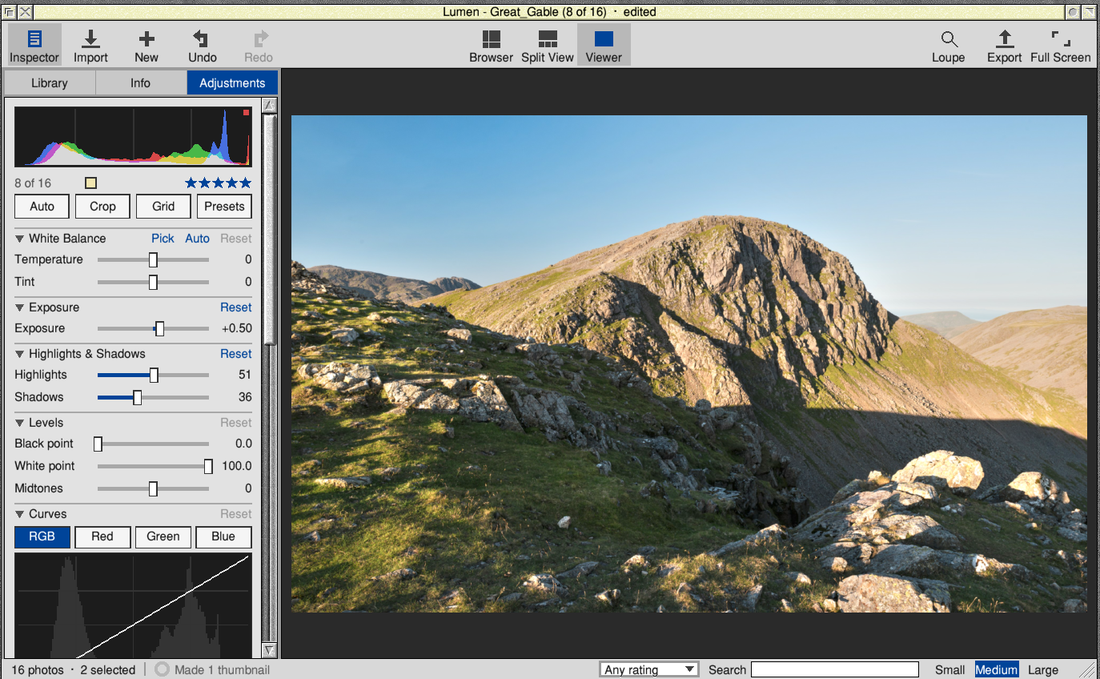
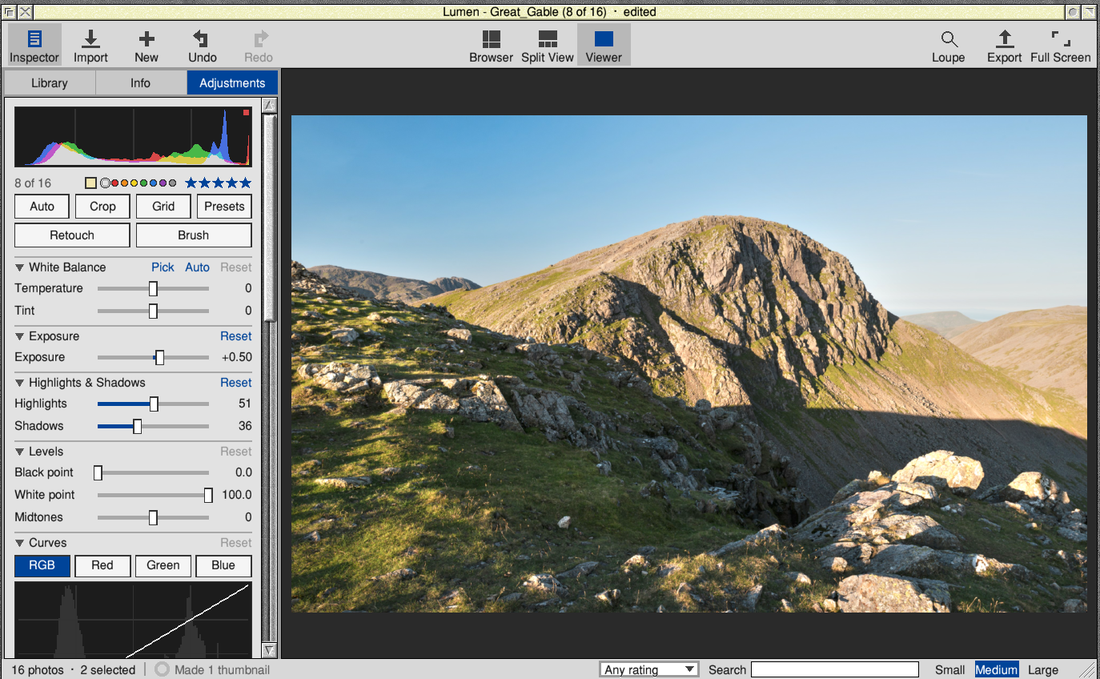
0.0.25: guide and !Help for retouch, brush, B&W, labels and compare
The guide covers colour labels (Chapter 5), comparing (Chapter 9), the
Black & White mixer (Chapter 10), and Retouch and Brush (Chapter 11, now
"Cropping, straightening, retouching and brushing"), with new pictures;
the panel, Photo and Selection menus, Presets and Info pictures are made
again for the new rows and items. Keys, mouse and menu tables updated.
!Help and the README describe them too.

Changed region(s): [[0.0, 0.3093, 0.2473, 0.9588], [0.0927, 0.2474, 0.1545, 0.2784], [0.0618, 0.9278, 0.0927, 0.9588]]

diff --git a/docs/guide/index.html b/docs/guide/index.html
@@ -67,7 +67,7 @@ a { color:#1f5fa8; }
 <li><a href="#part2">Part II: Your Photos</a>
 <ul><li><a href="#ch4">4. Bringing photos in</a></li><li><a href="#ch5">5. Looking through, rating and flagging</a></li><li><a href="#ch6">6. Projects, albums, stacks and watched folders</a></li><li><a href="#ch7">7. Keywords and finding photos</a></li><li><a href="#ch8">8. Removing photos, and photos that have moved</a></li></ul></li>
 <li><a href="#part3">Part III: Making Photos Better</a>
-<ul><li><a href="#ch9">9. Looking closely: the Viewer</a></li><li><a href="#ch10">10. The adjustments</a></li><li><a href="#ch11">11. Cropping and straightening</a></li><li><a href="#ch12">12. Styles, presets, versions and copying adjustments</a></li><li><a href="#ch13">13. What the camera recorded: the Info tab</a></li></ul></li>
+<ul><li><a href="#ch9">9. Looking closely: the Viewer</a></li><li><a href="#ch10">10. The adjustments</a></li><li><a href="#ch11">11. Cropping, straightening, retouching and brushing</a></li><li><a href="#ch12">12. Styles, presets, versions and copying adjustments</a></li><li><a href="#ch13">13. What the camera recorded: the Info tab</a></li></ul></li>
 <li><a href="#part4">Part IV: Sharing and Setting Up</a>
 <ul><li><a href="#ch14">14. Exporting and printing photos</a></li><li><a href="#ch15">15. Camera raw files and plug-ins</a></li><li><a href="#ch16">16. Choices</a></li><li><a href="#ch17">17. Getting help</a></li></ul></li>
 <li><a href="#part5">Part V: The Part of Tens</a>
@@ -275,6 +275,14 @@ a { color:#1f5fa8; }
 </ul>
 <p>All of these are on the <b>Selection</b> menu too: click Menu over the Browser.</p>
 
+<h4>Colour labels</h4>
+<p>A <b>colour label</b> is a coloured dot you give a photo, for whatever you like: red for "to print", green for "done", blue for "send to Mum". Choose <b>Colour label</b> from the Selection menu and pick a dot: the selected photos all get it, and the dot shows beside each one's name. <b>None</b> takes it off.</p>
+<div class="pair">
+<figure><img src="images/label-menu.png" alt="The Colour label menu"><figcaption>Selection &rarr; Colour label: pick a dot.</figcaption></figure>
+<figure><img src="images/labels.png" alt="Photos with colour labels"><figcaption>The dots beside the names.</figcaption></figure>
+</div>
+<p>You can also click a dot in the <b>Info</b> tab's Label row, or in the line of dots under the histogram in the Adjustments tab: click the photo's own dot again to take it off. Searching for a colour's name (<code>red</code>, <code>blue</code>) finds the photos with that label.</p>
+
 <div class="box try"><b class="label">TRY IT</b>Go through your photos with the arrow keys. Give each one stars: <kbd>5</kbd> for the best, <kbd>1</kbd> for the poor ones, <kbd>9</kbd> for the ones you'd never show anyone. Then choose <b>4 stars and up</b> from the rating filter in the bottom bar (<a href="#ch7">Chapter 7</a>): there are your best photos.</div>
 
 <h4>Thumbnail size</h4>
@@ -371,7 +379,7 @@ a { color:#1f5fa8; }
 <div class="box tip"><b class="label">TIP</b>Keywords travel with your photos. Exports carry the caption and keywords (as XMP, which other photo programs and websites read), and photos you import that were given keywords in another program bring them along.</div>
 
 <h4>Searching</h4>
-<p>Click in the <b>Search</b> box in the bottom bar and type. The Browser shows only the photos that match, as you type. Lumen looks in each photo's name, its caption and keywords, its camera's make and model, the date it was taken and its project's name. Type several words to find photos that match all of them. <kbd>Escape</kbd> empties the box.</p>
+<p>Click in the <b>Search</b> box in the bottom bar and type. The Browser shows only the photos that match, as you type. Lumen looks in each photo's name, its caption and keywords, its colour label's name, its camera's make and model, the date it was taken and its project's name. Type several words to find photos that match all of them. <kbd>Escape</kbd> empties the box.</p>
 <figure><img src="images/search.png" alt="Searching for tarn"><figcaption>Searching for "tarn". The title bar shows what you searched for.</figcaption></figure>
 
 <div class="box tip"><b class="label">TIP</b>Dates are searched as the camera writes them, year first: type <code>2022</code> for a year, or <code>2022:08</code> (or <code>2022-08</code>) for a month.</div>
@@ -426,6 +434,16 @@ a { color:#1f5fa8; }
 </ul>
 <figure><img src="images/loupe.png" alt="The loupe"><figcaption>The loupe at 100%, over the rocks.</figcaption></figure>
 
+<h4>Comparing two photos</h4>
+<p>To choose between two shots of the same thing, select both in the Browser and press <kbd>O</kbd> (or choose <b>Compare</b> from the Selection menu). The first is pinned on the left; the other is beside it on the right, as large as the window allows.</p>
+<figure><img src="images/compare.png" alt="Comparing two photos"><figcaption>Friars Crag pinned on the left, Buttermere on the right.</figcaption></figure>
+<ul>
+<li>In the Viewer, <kbd>O</kbd> (or <b>Compare with the next</b> on the Photo menu) pins the photo you're looking at and shows the next beside it.</li>
+<li><kbd>&larr;</kbd> and <kbd>&rarr;</kbd> change the photo on the right; the pinned one stays. Rate, flag and label as you go: the keys work on the photo on the right.</li>
+<li><kbd>Return</kbd> pins the photo on the right instead, and shows the next beside it: a quick way to find the best of a run, keeping the winner pinned.</li>
+<li><kbd>O</kbd> or <kbd>Escape</kbd> stops comparing. Zooming to 100%, cropping or the loupe stop it too.</li>
+</ul>
+
 <h4>Full screen</h4>
 <p>Click <b>Full Screen</b> or press <kbd>F</kbd>: the photo fills the whole screen, with nothing else. Press <kbd>F</kbd> or <kbd>Escape</kbd> to come back.</p>
 <figure><img src="images/full-screen.png" alt="Full screen"><figcaption>Full screen.</figcaption></figure>
@@ -435,7 +453,7 @@ a { color:#1f5fa8; }
 <p>Click the <b>Adjustments</b> tab. If you were in the Browser, Lumen switches to Split View so you can see the photo you're adjusting.</p>
 <figure><img src="images/adjustments.png" alt="The Adjustments tab"><figcaption>The Adjustments tab beside the photo.</figcaption></figure>
 
-<p>At the top is the photo's <b>histogram</b> (a graph of how much of the photo is dark, middle and light: left to right), its place in the list and its stars. Under that are four buttons, <b>Auto</b>, <b>Crop</b>, <b>Grid</b> and <b>Presets</b>, and then the adjustments, in groups.</p>
+<p>At the top is the photo's <b>histogram</b> (a graph of how much of the photo is dark, middle and light: left to right), its place in the list, its flag, its colour label (click a dot to change it) and its stars. Under that are the buttons <b>Auto</b>, <b>Crop</b>, <b>Grid</b> and <b>Presets</b>, then <b>Retouch</b> and <b>Brush</b> (<a href="#ch11">Chapter 11</a>), and then the adjustments, in groups.</p>
 
 <h4>Using the sliders</h4>
 <ul>
@@ -447,7 +465,7 @@ a { color:#1f5fa8; }
 
 <div class="pair">
 <figure><img src="images/panel-top.png" alt="The top of the Adjustments tab"><figcaption>White balance, exposure, highlights &amp; shadows, levels.</figcaption></figure>
-<figure><img src="images/panel-bottom.png" alt="The rest of the Adjustments tab"><figcaption>Enhance, colour, split toning, noise reduction, sharpen and vignette.</figcaption></figure>
+<figure><img src="images/panel-bottom.png" alt="The rest of the Adjustments tab"><figcaption>Further down: enhance, colour, black &amp; white and split toning.</figcaption></figure>
 </div>
 
 <h4>The groups</h4>
@@ -460,6 +478,7 @@ a { color:#1f5fa8; }
 <tr><td>Curves</td><td>(a graph)</td><td>Fine control of brightness from dark to light, for all colours (RGB) or one at a time (Red, Green, Blue). Click the line to add a point and drag it; click a point with Adjust to remove it.</td></tr>
 <tr><td>Enhance</td><td>Contrast, Saturation, Vibrancy</td><td>More (or less) punch. Vibrancy adds colour mostly where there's little, so skin doesn't go orange.</td></tr>
 <tr><td>Colour</td><td>Hue, Saturation, Luminance, for each of eight colours</td><td>Change one range of colours and leave the rest: a deeper blue sky, quieter greens, warmer oranges. See below.</td></tr>
+<tr><td>Black &amp; White</td><td>Amount, Red, Green, Blue</td><td>Turn the photo black and white, choosing how light each colour comes out: like a coloured filter on a black and white film camera. See below.</td></tr>
 <tr><td>Split Toning</td><td>Shadow hue, Shadows, Highlight hue, Highlights</td><td>Tint the dark parts one colour and the light parts another: warm highlights and cool shadows for a film look, or brown or blue for a toned black and white print. A hue is a colour round the colour wheel (0 red, 30 orange, 60 yellow, 120 green, 180 cyan, 210 blue, 300 magenta); its strength says how much.</td></tr>
 <tr><td>Noise Reduction</td><td>Luminance, Colour</td><td>Smooth away the speckles in photos taken in poor light. See below.</td></tr>
 <tr><td>Sharpen</td><td>Amount, Radius</td><td>Crisper edges. A little goes a long way.</td></tr>
@@ -478,6 +497,11 @@ a { color:#1f5fa8; }
 <li><b>Luminance</b> makes them lighter or darker: a darker blue makes a sky deeper without touching the hills.</li>
 </ul>
 <p>Colours between two swatches get some of each, so changes blend smoothly, and greys and whites are left alone. A pale sky is part aqua and part blue, so it changes less than a deep blue one.</p>
+
+<h4>Black &amp; White</h4>
+<p><b>Amount</b> takes the colour away: at 100 the photo is black and white, and in between it's partly faded. <b>Red</b>, <b>Green</b> and <b>Blue</b> say how much each of the photo's colours counts towards the grey: raise Red and red and orange things (skin, autumn leaves, a sunset) come out lighter; lower Blue and a blue sky or lake comes out darker and dramatic, as a red filter does on film. They start at 30, 59 and 11, the mix that looks most like the colour photo's own brightness.</p>
+<figure><img src="images/black-white.png" alt="Black and white"><figcaption>Buttermere in black and white: Red raised to 78, Blue lowered to -65, so the sky and its reflection go dark and the fell stands out.</figcaption></figure>
+<p>Split Toning comes after it, so you can tint the black and white: brown in the shadows for an old print, or a cool blue.</p>
 
 <h4>Noise Reduction and Vignette</h4>
 <div class="pair">
@@ -502,7 +526,7 @@ a { color:#1f5fa8; }
 
 <div class="box tech"><b class="label">TECHNICAL STUFF</b>Lumen works on a copy of the photo up to 1600 pixels across while you adjust, in 16-bit linear light, so changes are quick and smooth. 100%, the loupe and exports work from the full-size photo. A photo's adjustments are kept as a short text "recipe" in the catalogue.</div>
 
-<h3 class="chapter" id="ch11"><span>11</span> Cropping and straightening</h3>
+<h3 class="chapter" id="ch11"><span>11</span> Cropping, straightening, retouching and brushing</h3>
 
 <p>Click <b>Crop</b> in the Adjustments tab, or press <kbd>C</kbd>. Lumen shows the whole photo with the crop over it; the parts outside are darkened.</p>
 <figure><img src="images/crop.png" alt="Cropping"><figcaption>Cropping, with the Thirds grid to help place the mountain.</figcaption></figure>
@@ -517,6 +541,44 @@ a { color:#1f5fa8; }
 
 <h4>Straightening</h4>
 <p>Drag the <b>Straighten</b> slider in the Geometry group. A fine grid appears over the photo while you drag, to line the horizon up with. <kbd>[</kbd> and <kbd>]</kbd> turn the photo a quarter left and right.</p>
+
+<h4>Painting things out: Retouch</h4>
+<p>A speck of dust on the sensor, a stray rock in a still lake, a crisp packet on a beach: click <b>Retouch</b> in the Adjustments tab, or press <kbd>R</kbd>, and click on it. Lumen paints it out with a patch from close by, which it chooses for you.</p>
+<figure><img src="images/retouch.png" alt="The Retouch tool"><figcaption>Retouching: the spot's circle in blue, and the place it was filled from in grey, with a line between.</figcaption></figure>
+<p>The tool's controls are in a box at the top of the photo:</p>
+<ul>
+<li><b>Repair</b> (usually best) takes the texture from the patch but matches its colour and brightness to what's round the spot, so it blends in. <b>Clone</b> copies the patch exactly as it is: use it where there's a hard line to carry on, such as a wall's edge.</li>
+<li><b>Size</b> sets the size of the circle. A circle follows the pointer over the photo, so you can match it to what you're painting out before you click: a little bigger than the blemish is right. <kbd>[</kbd> and <kbd>]</kbd> make it smaller and larger.</li>
+<li><b>Feather</b> is how much of the circle's edge fades into the photo. The inner ring shows where the painting is complete. A spot with too much feather lets a ghost of the blemish show; too little can leave a visible edge.</li>
+<li>The sliders change the spot you placed (or moved) last as well as new ones: if a spot doesn't quite cover the blemish, make it bigger. Lumen chooses a new patch to fill it from.</li>
+<li>Drag a spot to move it, or drag its grey circle to fill it from somewhere else. Click a spot with <b>Adjust</b> to take it away.</li>
+<li><b>Done</b>, <kbd>Return</kbd> or <kbd>Escape</kbd> puts the tool away. Undo works on spots as on everything else.</li>
+</ul>
+<div class="pair">
+<figure><img src="images/retouch-before.png" alt="Before retouching"><figcaption>Before: the circle over the rock.</figcaption></figure>
+<figure><img src="images/retouch-after.png" alt="After retouching"><figcaption>After one click.</figcaption></figure>
+</div>
+<div class="box tip"><b class="label">TIP</b>Keep each spot small and close to its blemish. A big circle that reaches a sharp edge nearby (the dark reflection of a hill, say) smudges it; two small spots do better than one large one.</div>
+
+<h4>Painting on adjustments: Brush</h4>
+<p>Sometimes only part of a photo needs a change: a sky a little too bright, a face in shadow, a field of flowers that should glow. Click <b>Brush</b> in the Adjustments tab, or press <kbd>B</kbd>, choose what to paint, and drag over the photo:</p>
+<ul>
+<li><b>Dodge</b> lightens and <b>Burn</b> darkens, as a darkroom printer did by hand.</li>
+<li><b>Saturate</b> makes colours stronger; <b>Desaturate</b> makes them quieter (at full strength, grey).</li>
+<li><b>Size</b> and <b>Feather</b> are the brush's size and soft edge, as for Retouch; <b>Strength</b> is how much: for Dodge and Burn, in stops (EV) of light, up to 2.</li>
+</ul>
+<figure><img src="images/brush.png" alt="The Brush tool"><figcaption>Brushing: a large Burn stroke along the sky (its path in blue) and a Dodge stroke over the rocks (in yellow). The circle is the brush.</figcaption></figure>
+<div class="pair">
+<figure><img src="images/brush-before.png" alt="Before brushing"><figcaption>Before.</figcaption></figure>
+<figure><img src="images/brush-after.png" alt="After brushing"><figcaption>After: the sky deeper, the rocks in front lifted.</figcaption></figure>
+</div>
+<ul>
+<li>Each stroke's path is drawn over the photo in its colour: yellow for Dodge, blue for Burn, red for Saturate, grey for Desaturate.</li>
+<li>Going over the same place in one stroke doesn't add up; a second stroke over the first does. So for a stronger effect, paint again.</li>
+<li>The sliders change the stroke you painted last, so you can paint first and then judge how strong it should be.</li>
+<li>Click a stroke's path with <b>Adjust</b> to take that stroke away.</li>
+</ul>
+<div class="box rem"><b class="label">REMEMBER</b>Spots and strokes belong to that photo: they aren't part of a preset or a style, and aren't copied by Copy adjustments, because they're in particular places on that photo. They're kept in its recipe, so like every adjustment they change nothing in the photo's file, and they're in exports, prints and thumbnails.</div>
 
 <h3 class="chapter" id="ch12"><span>12</span> Styles, presets, versions and copying adjustments</h3>
 
@@ -574,7 +636,7 @@ a { color:#1f5fa8; }
 
 <h3 class="chapter" id="ch13"><span>13</span> What the camera recorded: the Info tab</h3>
 
-<p>Click the <b>Info</b> tab to see everything about the selected photo: its size, rating, caption and keywords (click them to change them, <a href="#ch7">Chapter 7</a>), which version it is and its stack, file and colour space, and then everything the camera recorded (called <b>EXIF</b>): camera, lens, exposure, date, and, if the camera knew, where it was taken.</p>
+<p>Click the <b>Info</b> tab to see everything about the selected photo: its size, rating, flag, colour label (click a dot to change it), caption and keywords (click them to change them, <a href="#ch7">Chapter 7</a>), which version it is and its stack, file and colour space, and then everything the camera recorded (called <b>EXIF</b>): camera, lens, exposure, date, and, if the camera knew, where it was taken.</p>
 <div class="pair">
 <figure><img src="images/info-tab.png" alt="The Info tab"><figcaption>The top of the Info tab.</figcaption></figure>
 <figure><img src="images/info-exif.png" alt="More of the Info tab"><figcaption>Further down: the lens, and the start of GPS.</figcaption></figure>
@@ -716,7 +778,7 @@ a { color:#1f5fa8; }
 <li><b>The library</b> is a directory: <code>Catalogue</code> (an SQLite database) and <code>Thumbs</code> (256-pixel JPEGs in 256 subdirectories). Originals are referenced, never copied or written to. Back the directory up as you would any other.</li>
 <li><b>Choosing the library:</b> <code>Lumen$Library</code>, set before Lumen starts, wins over the Choices window. Otherwise it's the Choices setting, else <code>&lt;Choices$Write&gt;.Lumen.Library</code> (or <code>LumenLibrary</code> beside !Lumen if there's no Choices yet).</li>
 <li><b>Recognising photos:</b> each original is identified by a hash of its size and its first and last 64 KB, which is how re-imports are skipped and moved files relinked.</li>
-<li><b>Recipes:</b> adjustments are stored per photo as a short text recipe; the pipeline runs geometry first (quarter turns, straighten, perspective, crop) in 16-bit linear light, then white balance, exposure, local highlights and shadows, levels, curves and enhance, then split toning (after saturation, so it tints black and white), then sharpening at the output size. A style is the look part of a recipe; while one is shown from the menu, nothing is written to the catalogue.</li>
+<li><b>Recipes:</b> adjustments are stored per photo as a short text recipe; retouch spots (<code>spot</code> lines) and brush strokes (<code>brush</code> lines, their points in ten-thousandths of the photo) are applied first, on the photo turned upright, so they stay on what they cover whatever the crop; then the pipeline runs geometry (quarter turns, straighten, perspective, crop) in 16-bit linear light, then white balance, exposure, local highlights and shadows, levels, curves and enhance, then the black and white mix and split toning (after saturation, so it tints black and white), then sharpening at the output size. A style is the look part of a recipe; while one is shown from the menu, nothing is written to the catalogue.</li>
 <li><b>Speed:</b> the Viewer works on a proxy of up to 1600 pixels, and a half-size copy while a slider is dragged. JPEGs are decoded with libjpeg-turbo, which uses NEON when the processor has it (set <code>JSIMD_FORCENONE</code> to 1 to compare without).</li>
 <li><b>Background work</b> (imports, thumbnails, exports, checking files, watched folders) runs in short slices on null events, so the desktop never waits; Lumen asks for null events only while there's work to do. Thumbnails nobody is looking at are made with <code>Wimp_PollIdle</code> between slices while another task has the input focus. Watched folders wake Lumen with <code>Wimp_PollIdle</code> when they're due; unchanged files are skipped by size and date without being read. The Styles item asks for <code>Message_MenuWarning</code>, and only while that list is open does Lumen look at the pointer (every 5 cs) to show the style under it.</li>
 <li><b>Colour:</b> Adobe RGB (1998) and Display P3 photos (from their ICC profile, or EXIF's colour space and interoperability index) are converted to sRGB by matrix in linear light. Other profiles are treated as sRGB.</li>
@@ -758,7 +820,11 @@ a { color:#1f5fa8; }
 <tr><td><kbd>A</kbd></td><td>Auto adjust (Viewer)</td></tr>
 <tr><td><kbd>C</kbd></td><td>Crop (Viewer)</td></tr>
 <tr><td><kbd>G</kbd></td><td>Next grid: none, thirds, quarters, fine (Viewer)</td></tr>
-<tr><td><kbd>[</kbd> / <kbd>]</kbd></td><td>Turn a quarter left / right (Viewer)</td></tr>
+<tr><td><kbd>[</kbd> / <kbd>]</kbd></td><td>Turn a quarter left / right (Viewer; while retouching or brushing: the brush smaller / larger)</td></tr>
+<tr><td><kbd>{</kbd> / <kbd>}</kbd></td><td>Less / more feather (while retouching or brushing)</td></tr>
+<tr><td><kbd>R</kbd></td><td>Retouch on / off (Viewer)</td></tr>
+<tr><td><kbd>B</kbd></td><td>Brush on / off (Viewer)</td></tr>
+<tr><td><kbd>O</kbd></td><td>Compare: the selection (Browser), or this photo with the next (Viewer); again to stop. While comparing, <kbd>Return</kbd> pins the photo on the right</td></tr>
 </table>
 
 <h4>Mouse</h4>
@@ -769,6 +835,9 @@ a { color:#1f5fa8; }
 <tr><td>A slider</td><td>Drag or click to set it</td><td>Back to where it started</td></tr>
 <tr><td>A group's name</td><td colspan="2">Fold it away or open it</td></tr>
 <tr><td>The curve</td><td>Add a point, or drag one</td><td>Remove a point</td></tr>
+<tr><td>The photo, retouching</td><td>Paint out a spot; drag a spot or its source to move it</td><td>Take a spot away</td></tr>
+<tr><td>The photo, brushing</td><td>Drag to paint a stroke (click: a dab)</td><td>Take a stroke away</td></tr>
+<tr><td>A colour label's dot (Info or Adjustments tab)</td><td colspan="2">Give the photo that label (its own dot again: none)</td></tr>
 <tr><td>A line in the Library tab</td><td>Show those photos</td><td>&ndash;</td></tr>
 <tr><td>The number on a stack's pick</td><td colspan="2">Open or close the stack</td></tr>
 <tr><td>A colour swatch (Colour group)</td><td colspan="2">Show that colour's sliders</td></tr>
@@ -788,12 +857,12 @@ a { color:#1f5fa8; }
 <table>
 <tr><th>Menu</th><th>Items</th></tr>
 <tr><td>Show</td><td>All photos; Flagged; Rejected; Last import; Projects &rarr;; Albums &rarr;; Rating filter &rarr;</td></tr>
-<tr><td>Selection</td><td>Rating &rarr;; Flag / unflag; Reject; Caption and keywords...; Select all; Clear selection; Copy adjustments; Paste adjustments; Apply preset &rarr; (Styles &rarr;, then your presets); Export...; Print...; Remove from library...</td></tr>
+<tr><td>Selection</td><td>Rating &rarr;; Colour label &rarr;; Flag / unflag; Reject; Caption and keywords...; Select all; Clear selection; Copy adjustments; Paste adjustments; Apply preset &rarr; (Styles &rarr;, then your presets); Compare; Export...; Print...; Remove from library...</td></tr>
 <tr><td>Album</td><td>New album from selection &rarr;; Add selection to &rarr;; Remove from this album; New smart album...</td></tr>
 <tr><td>Versions and stacks</td><td>Duplicate version; New version from original; Stack; Unstack; Make the pick; Open or close stack; Auto-stack, seconds apart &rarr;</td></tr>
 <tr><td>Thumbnail size</td><td>Small; Medium; Large</td></tr>
 <tr><td>Plug-ins</td><td>Each plug-in (ticked when on); Add plug-in...; Remove &rarr;</td></tr>
-<tr><td>Photo (Viewer)</td><td>Before and after; Zoom to 100%; Loupe &rarr;; Undo; Redo; Reset all adjustments; Auto adjust; Pick white balance; Crop; Crop shape &rarr;; Grid &rarr;; Presets &rarr; (Styles &rarr;; your presets; Save current as &rarr;; Delete &rarr;); Copy adjustments; Paste adjustments; Caption and keywords...; Duplicate version; New version from original; Export...; Print...; Back to the Browser; Remove from library...</td></tr>
+<tr><td>Photo (Viewer)</td><td>Before and after; Zoom to 100%; Loupe &rarr;; Undo; Redo; Reset all adjustments; Auto adjust; Pick white balance; Crop; Crop shape &rarr;; Grid &rarr;; Presets &rarr; (Styles &rarr;; your presets; Save current as &rarr;; Delete &rarr;); Copy adjustments; Paste adjustments; Colour label &rarr;; Caption and keywords...; Compare with the next; Duplicate version; New version from original; Export...; Print...; Back to the Browser; Remove from library...</td></tr>
 <tr><td>A project</td><td>Rename &rarr;; Watch for new photos; Albums from its folders; Remove project from library...</td></tr>
 <tr><td>An album</td><td>Rename &rarr;; Delete album... (a smart album also: Edit smart album...; an album made from a folder: Follows its folder)</td></tr>
 </table>

diff --git a/README.md b/README.md
@@ -201,6 +201,22 @@ Fixes from a review of 0.0.23:
   fields hold the catalogue's full sizes; a smart album deleted while
   being edited is noticed; the Caption window closes if its photo goes.
 
+## 0.0.25
+
+- Retouch (R): spots painted out, healed (the patch's texture with a
+  plane plus inverse-distance blend of the edge difference, so gradients
+  carry through) or cloned, from a source found by ring matching; size
+  and feather sliders, a brush outline under the pointer. retouch.c,
+  applied on the photo upright before geometry.
+- Brush (B): Dodge, Burn, Saturate, Desaturate strokes with a feathered
+  brush, in linear light after the spots; up to 32 strokes, 1024 points.
+- Black & White mixer (amount and red/green/blue weights) after HSL,
+  before split toning.
+- Colour labels (schema 6): seven coloured dots, in the Selection and
+  Photo menus, the Info tab, the Adjustments tab and beside each name.
+  Search matches the label's name.
+- Compare (O): a photo pinned on the left beside the one being looked at.
+
 ## Layout
 
 ```
